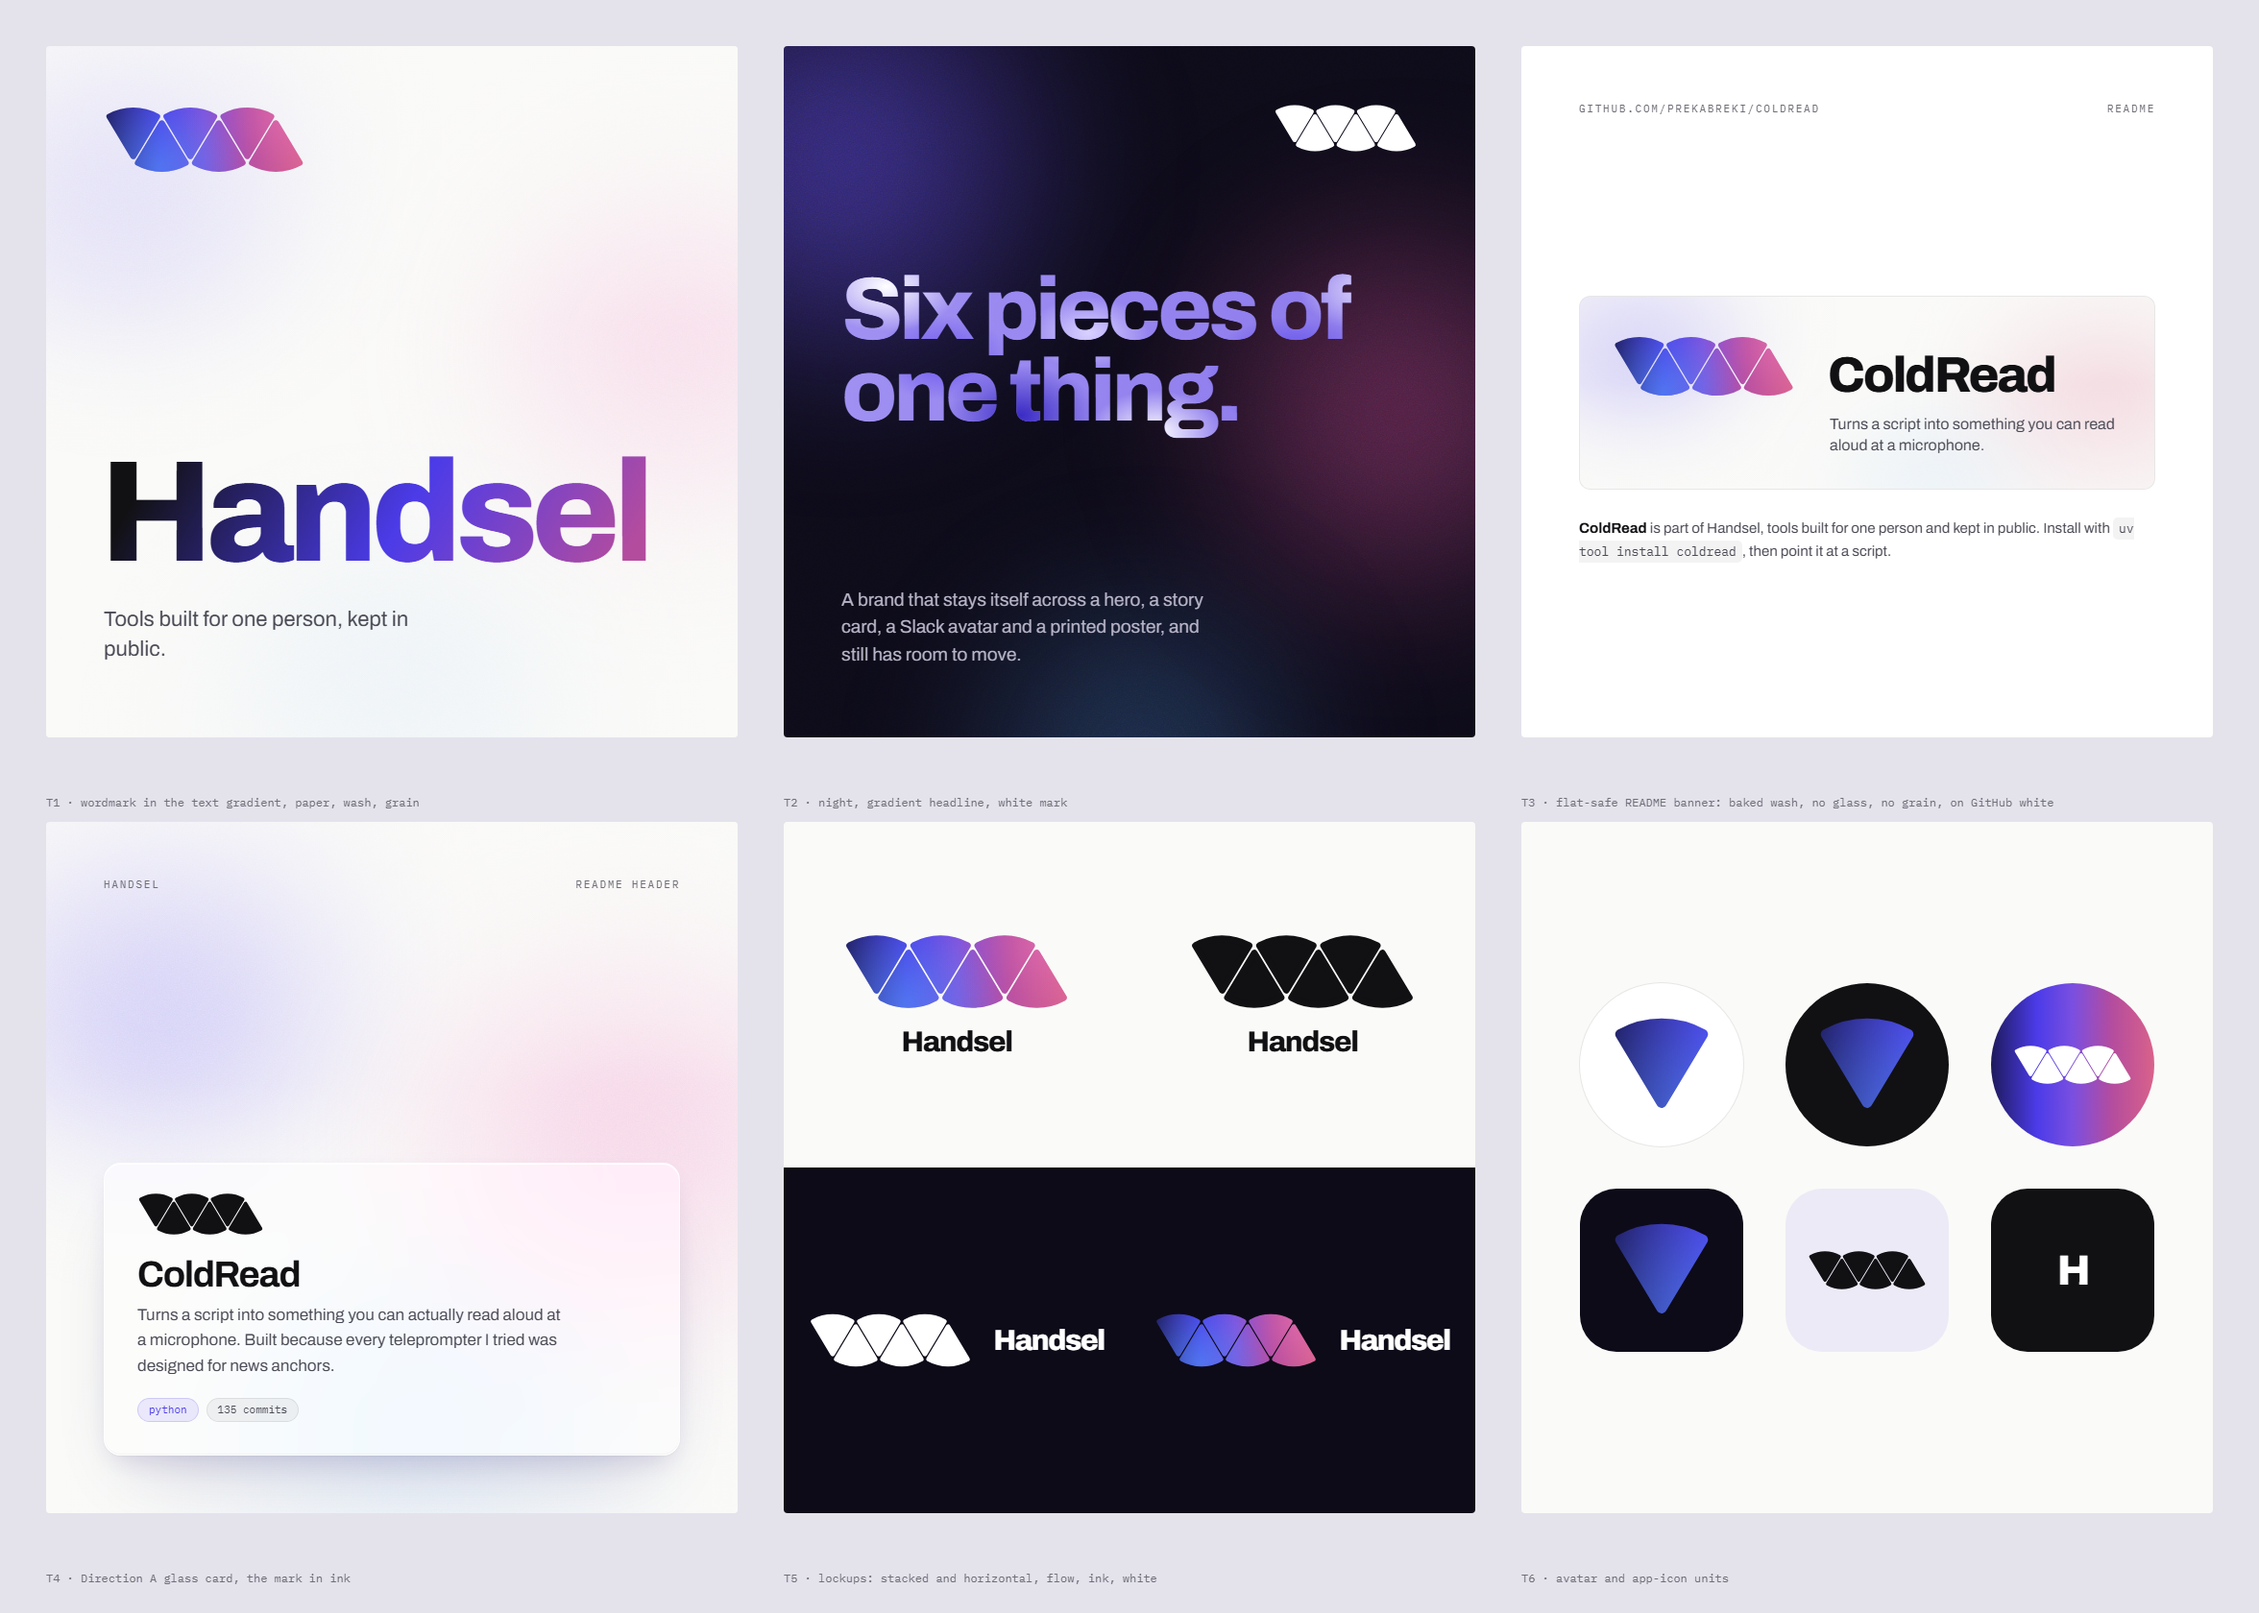
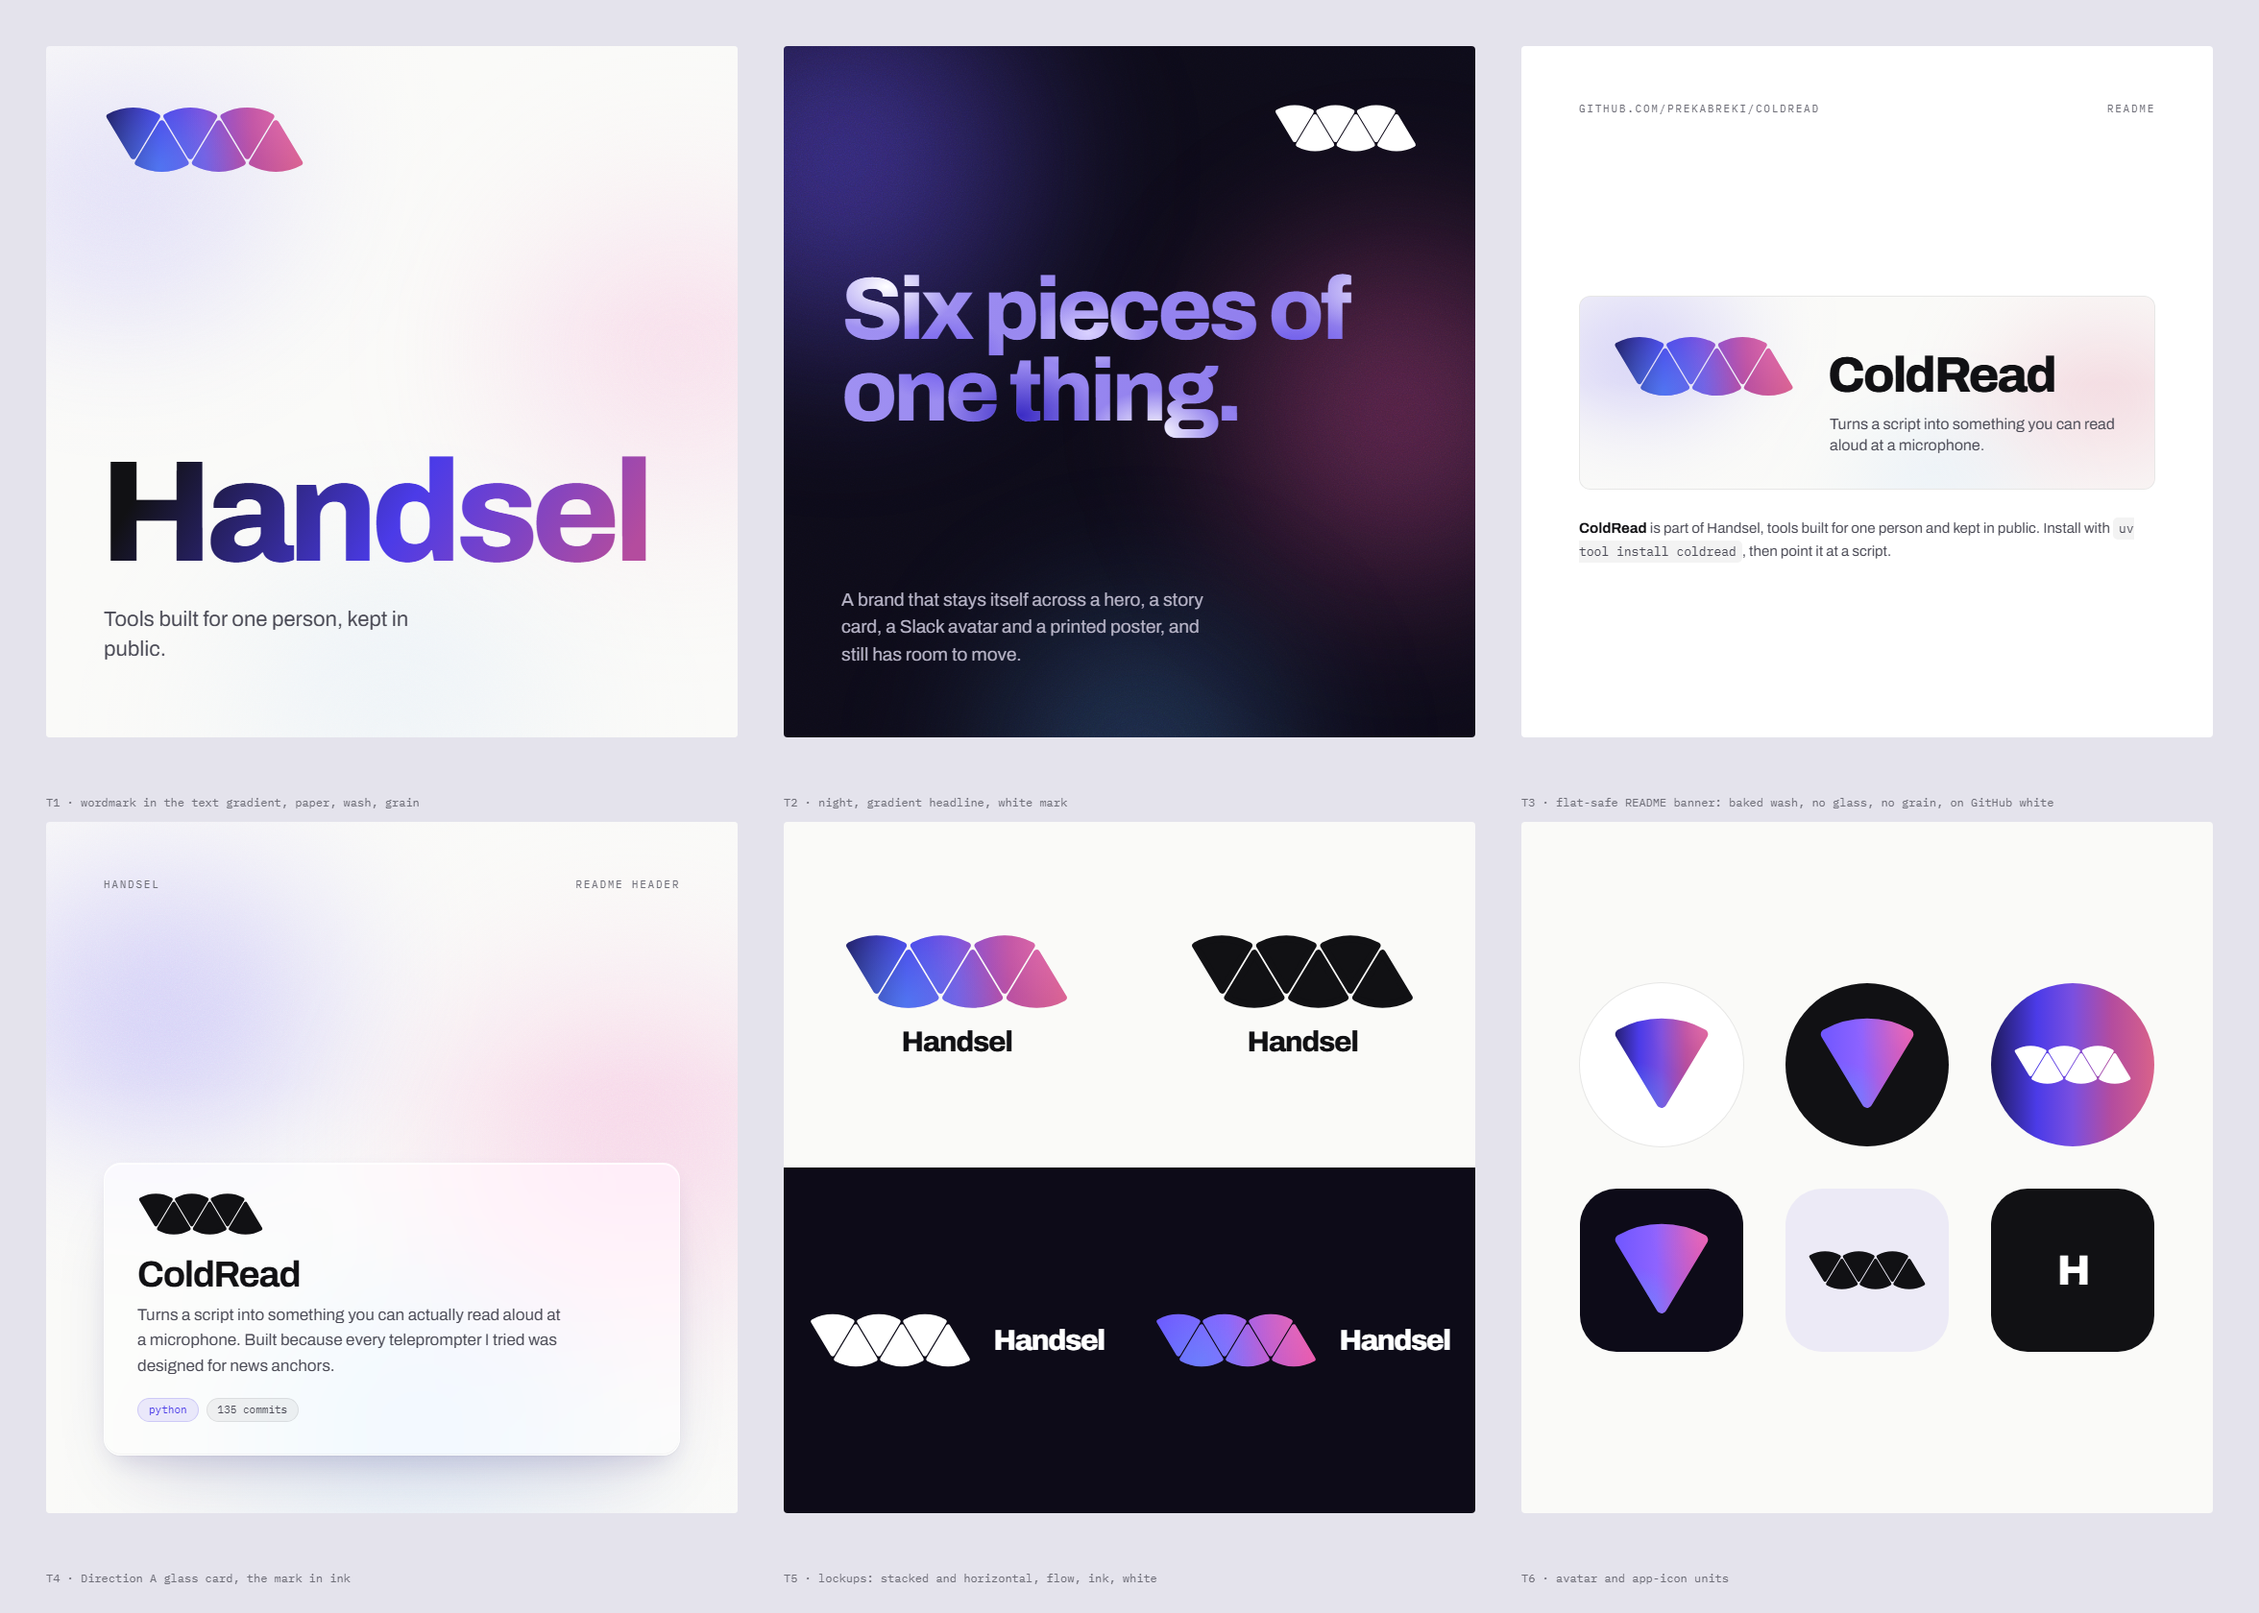
brand: night flow for dark grounds, lone slice carries the whole flow
The single-slice avatar took only the deep end of the band and vanished on ink.
It now spans the full flow across its own width, and dark grounds use the A2
pair, indigo 6C56FF to pink EC56A8, as slice-mark-night and slice-one-night.

diff --git a/lookdev/takes/takes.html b/lookdev/takes/takes.html
@@ -137,16 +137,16 @@
     </div>
     <div class="row dark">
       <div class="lock white h"><img src="../../brand/logo/slice-mark-white.svg" alt=""><span>Handsel</span></div>
-      <div class="lock white h"><img src="../../brand/logo/slice-mark.svg" alt=""><span>Handsel</span></div>
+      <div class="lock white h"><img src="../../brand/logo/slice-mark-night.svg" alt=""><span>Handsel</span></div>
     </div>
   </div><div class="cap">T5 · lockups: stacked and horizontal, flow, ink, white</div></div>
 
   <div class="cap-wrap"><div class="take t6">
     <div class="set">
       <div class="av paper"><img src="../../brand/logo/slice-one.svg" alt=""></div>
-      <div class="av ink"><img src="../../brand/logo/slice-one.svg" alt=""></div>
+      <div class="av ink"><img src="../../brand/logo/slice-one-night.svg" alt=""></div>
       <div class="av flow"><img src="../../brand/logo/slice-mark-white.svg" alt="" style="width:124px"></div>
-      <div class="sq" style="background:var(--night)"><img src="../../brand/logo/slice-one.svg" alt=""></div>
+      <div class="sq" style="background:var(--night)"><img src="../../brand/logo/slice-one-night.svg" alt=""></div>
       <div class="sq" style="background:var(--mist)"><img src="../../brand/logo/slice-mark-ink.svg" alt="" style="width:124px"></div>
       <div class="sq" style="background:var(--ink)"><span style="font:800 44px/1 var(--display);letter-spacing:-0.05em;color:#fff">H</span></div>
     </div>

diff --git a/brand/build_mark.py b/brand/build_mark.py
@@ -132,22 +132,53 @@ def flow_defs() -> str:
 
 FLOW_PAINTS = ["url(#flow)", "url(#warm)", "url(#cool)"]
 
+# On night grounds the flow's deep start disappears into the black. Direction A2
+# already answered this with a lifted pair, indigo 6C56FF to pink EC56A8, so the
+# night variant of the mark uses those.
+FLOW_STOPS_NIGHT = [
+    (0.00, "#6C56FF"),
+    (0.45, "#8E63FF"),
+    (0.75, "#C25CCB"),
+    (1.00, "#EC56A8"),
+]
+
+
+def flow_defs_for(stops, x0, x1, y0, y1, gid="flow"):
+    """A flow spanning exactly x0..x1, with the two washes scaled to that span."""
+    st = "".join(f'<stop offset="{o:.2f}" stop-color="{c}"/>' for o, c in stops)
+    w = x1 - x0
+    return (
+        f'<linearGradient id="{gid}" gradientUnits="userSpaceOnUse" x1="{x0:.1f}" y1="0" x2="{x1:.1f}" y2="0">{st}</linearGradient>'
+        f'<radialGradient id="warm" gradientUnits="userSpaceOnUse" cx="{x1 - w*0.08:.1f}" cy="{y0 + (y1-y0)*0.1:.1f}" r="{w*0.55:.1f}">'
+        f'<stop offset="0" stop-color="#F078BE" stop-opacity="0.5"/><stop offset="0.5" stop-color="#F078BE" stop-opacity="0.15"/><stop offset="1" stop-color="#F078BE" stop-opacity="0"/></radialGradient>'
+        f'<radialGradient id="cool" gradientUnits="userSpaceOnUse" cx="{x0 + w*0.27:.1f}" cy="{y1 - (y1-y0)*0.1:.1f}" r="{w*0.42:.1f}">'
+        f'<stop offset="0" stop-color="#56A4F8" stop-opacity="0.45"/><stop offset="1" stop-color="#56A4F8" stop-opacity="0"/></radialGradient>'
+    )
+
 
 def main() -> None:
     LOGO.mkdir(exist_ok=True)
+    x0, y0, x1, y1 = bbox()
     (LOGO / "slice-mark.svg").write_text(svg(FLOW_PAINTS, flow_defs()), encoding="utf-8")
+    (LOGO / "slice-mark-night.svg").write_text(
+        svg(FLOW_PAINTS, flow_defs_for(FLOW_STOPS_NIGHT, x0, x1, y0, y1)), encoding="utf-8")
     (LOGO / "slice-mark-ink.svg").write_text(svg(["#111114"]), encoding="utf-8")
     (LOGO / "slice-mark-white.svg").write_text(svg(["#FFFFFF"]), encoding="utf-8")
     (LOGO / "slice-mark-blank.svg").write_text(svg(["#E5E5E5"]), encoding="utf-8")
-    # One slice on its own: the avatar and favicon unit.
-    x0, y0, x1, y1 = bbox()
+
+    # One slice on its own: the avatar and favicon unit. The whole flow runs across
+    # this one slice, so it never inherits only the dark end of the band.
     single = [(0.0, 0.0, True)]
-    one = (f'<svg xmlns="http://www.w3.org/2000/svg" viewBox="-110 -110 220 220" width="220" height="220">'
-           f'<defs>{flow_defs()}<mask id="one" maskUnits="userSpaceOnUse" x="-110" y="-110" width="220" height="220">{silhouette("#fff", single)}</mask></defs>'
-           + silhouette(FLOW_PAINTS[0], single)
-           + "".join(f'<rect x="-110" y="-110" width="220" height="220" fill="{p}" mask="url(#one)"/>' for p in FLOW_PAINTS[1:])
-           + "</svg>\n")
-    (LOGO / "slice-one.svg").write_text(one, encoding="utf-8")
+    a = math.radians(HALF_DEG)
+    hw = R * math.sin(a) + ROUND / 2
+    for name, stops in (("slice-one.svg", FLOW_STOPS), ("slice-one-night.svg", FLOW_STOPS_NIGHT)):
+        one = (f'<svg xmlns="http://www.w3.org/2000/svg" viewBox="-110 -110 220 220" width="220" height="220">'
+               f'<defs>{flow_defs_for(stops, -hw, hw, -R/2 - ROUND/2, R/2 + ROUND/2)}'
+               f'<mask id="one" maskUnits="userSpaceOnUse" x="-110" y="-110" width="220" height="220">{silhouette("#fff", single)}</mask></defs>'
+               + silhouette(FLOW_PAINTS[0], single)
+               + "".join(f'<rect x="-110" y="-110" width="220" height="220" fill="{p}" mask="url(#one)"/>' for p in FLOW_PAINTS[1:])
+               + "</svg>" + chr(10))
+        (LOGO / name).write_text(one, encoding="utf-8")
 
     tokens = json.loads(TOKENS.read_text(encoding="utf-8")) if TOKENS.exists() else {}
     x0, y0, x1, y1 = bbox()

diff --git a/brand/rules.md b/brand/rules.md
@@ -9,6 +9,8 @@ Every line here is a check something can score.
 - Six pie slices in a 3:1 band, alternating apex down and apex up, the geometry in `tokens.json` under `mark`.
 - One gradient flows through all six left to right, deep indigo to rose.
 - Solid variants are ink on light ground and white on dark ground.
+- On night the gradient mark uses the lifted night flow, indigo 6C56FF to pink EC56A8; the paper flow starts too deep to read on black.
+- A lone slice always carries the whole flow across its own width, never a cut of the band.
 - Clear space is one slice radius on every side.
 - Minimum width is 96 px on screen.
 - The mark is never rotated, mirrored, outlined, or shown with a drop shadow.
